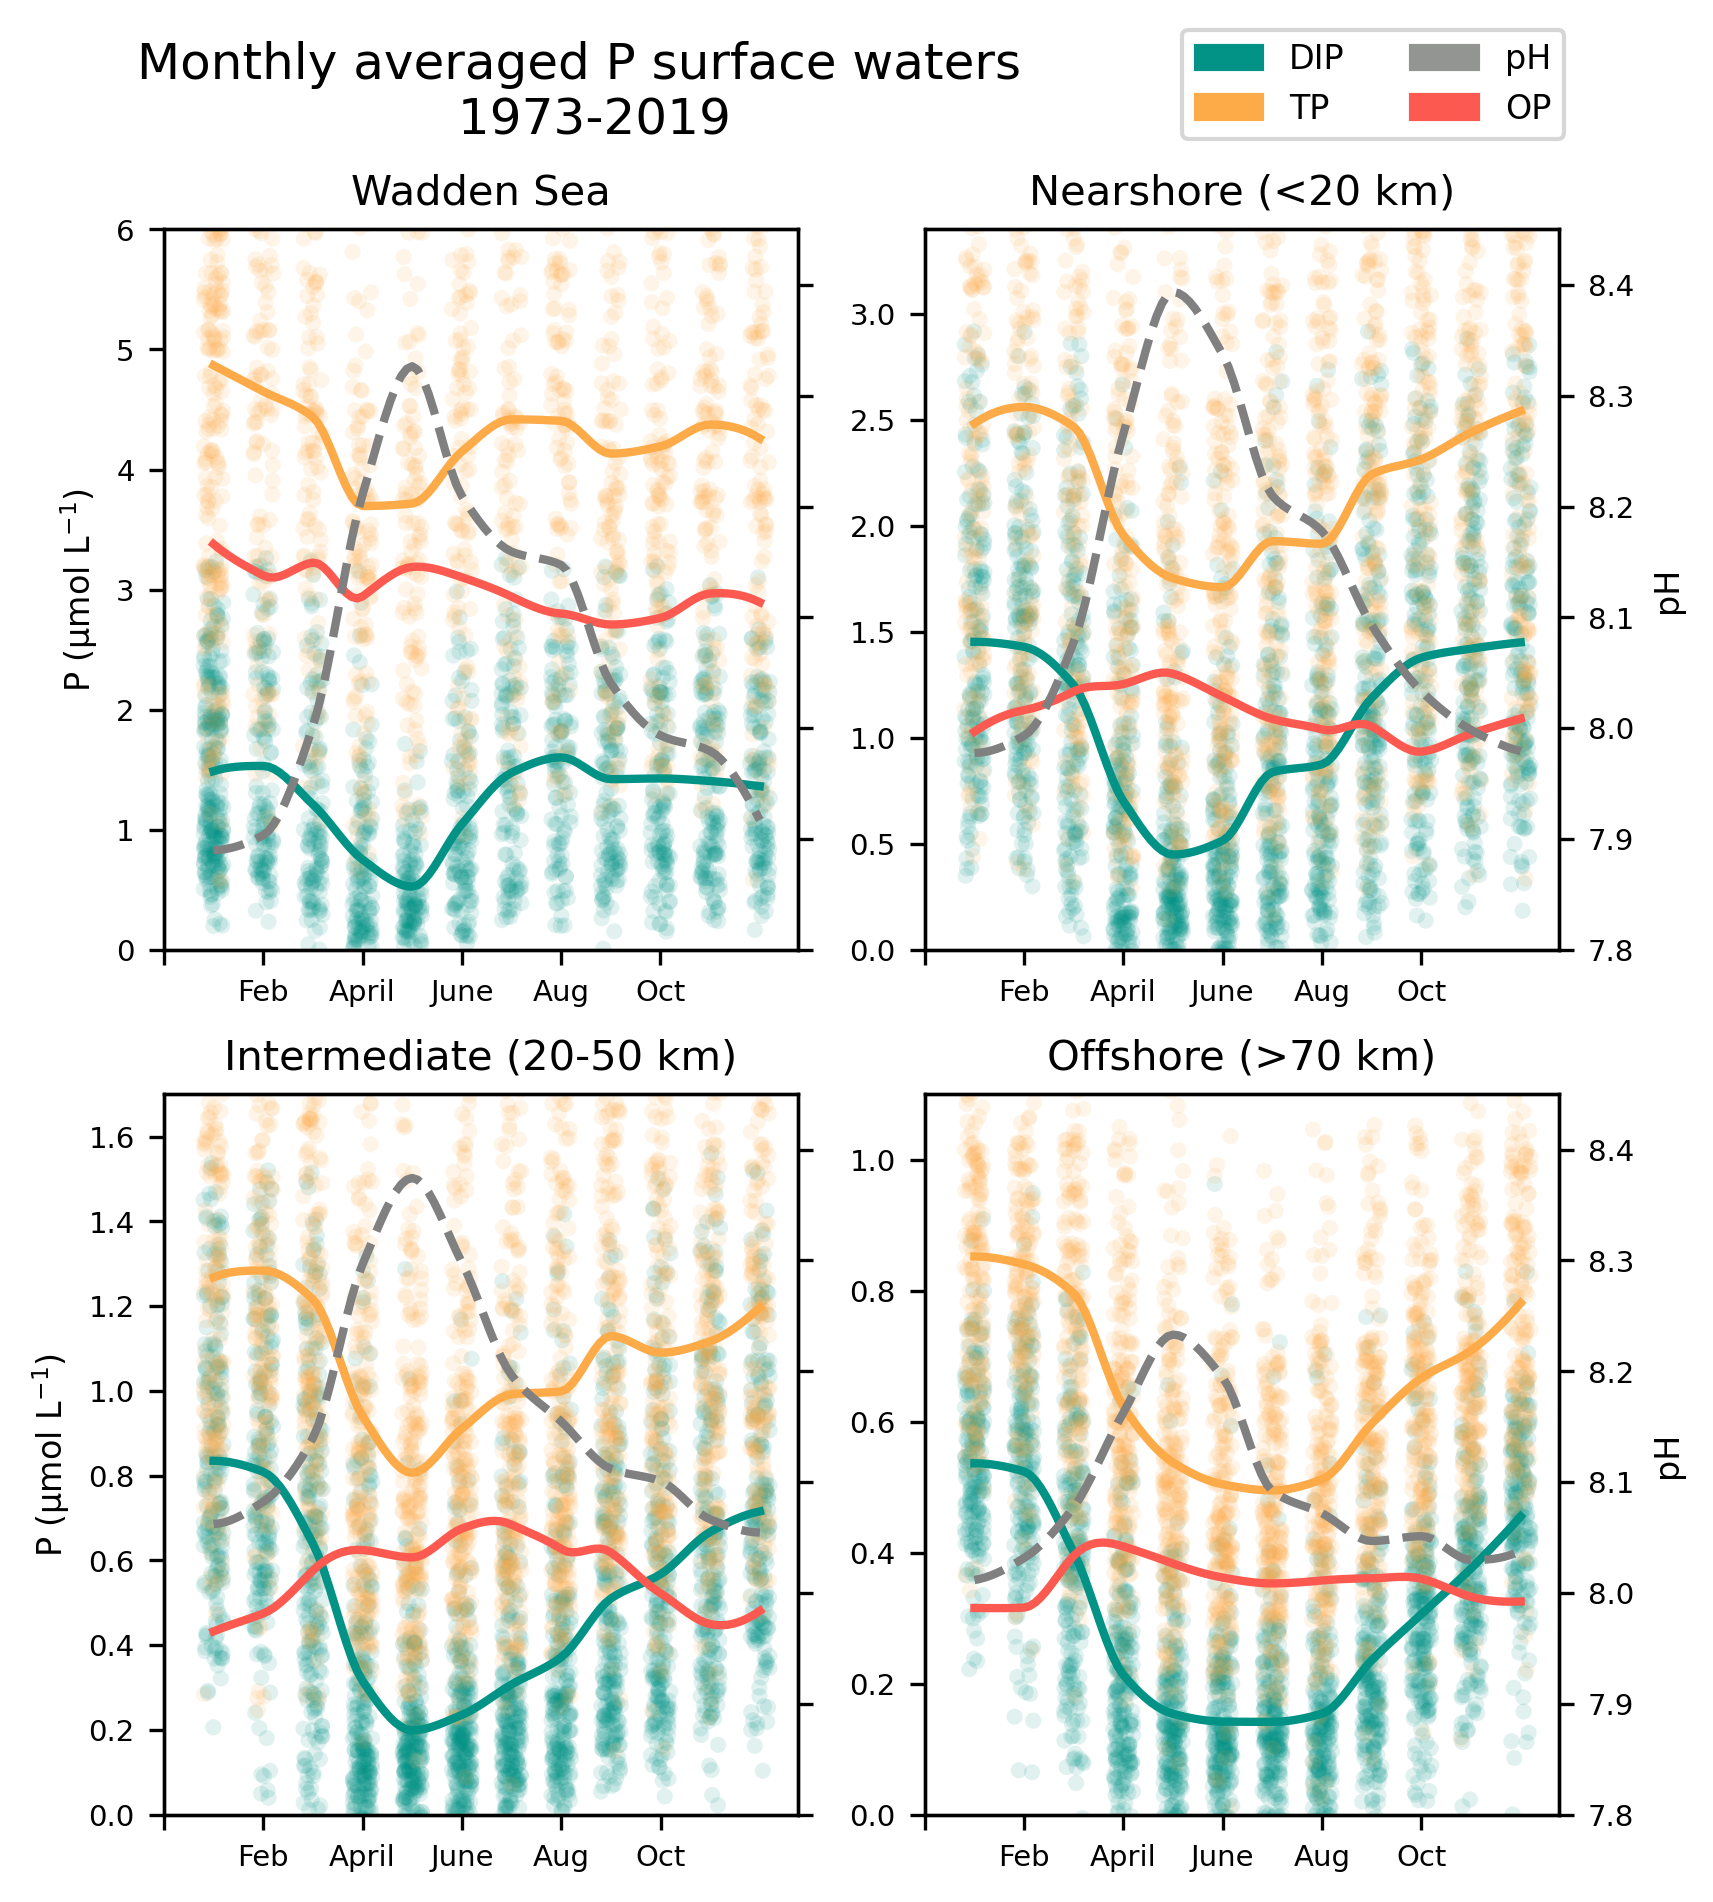
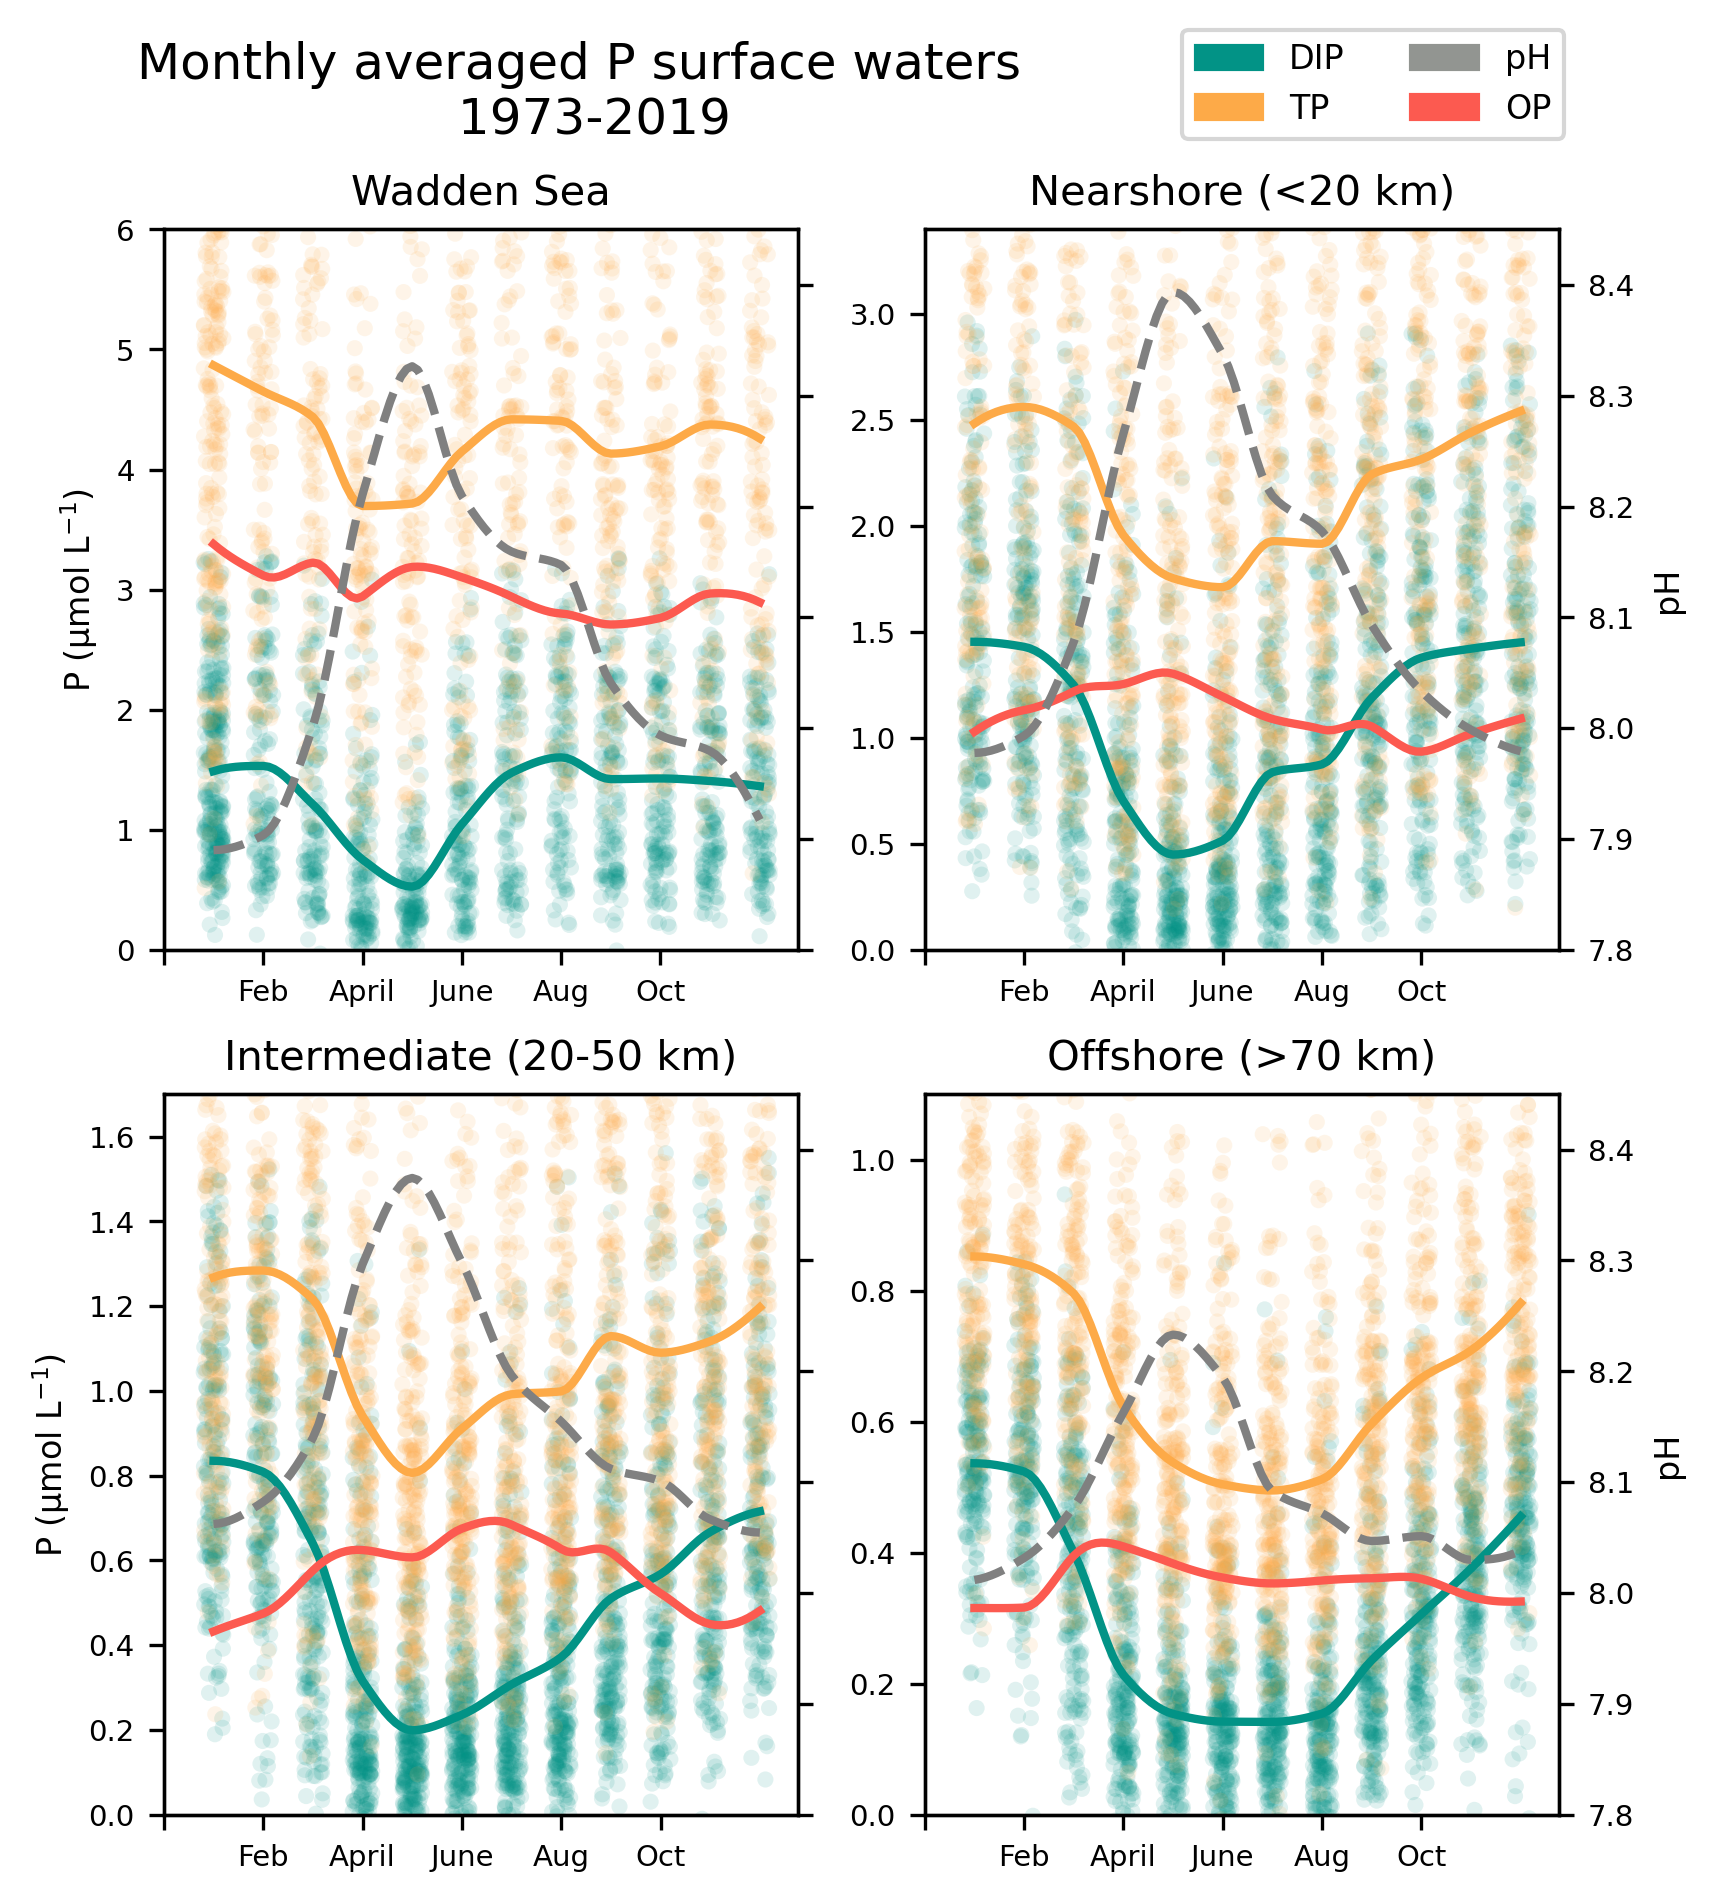
update

diff --git a/DIP_DOP_DIN_DON/dip_dop.py b/DIP_DOP_DIN_DON/dip_dop.py
@@ -40,7 +40,6 @@ if location == 'WaddenSea':
 for stationcode in station_codes:
     filename = "C:/Users/hanna/Documents/GitHub/rws-the-olden-days/data/x13/"+ stationcode.upper() + ".parquet"
     df = pq.read_table(source=filename).to_pandas()
-    df['datetime'] = mdates.num2date(df.datenum)
     L = ((df.datenum > mdates.datestr2num('{}-01-01'.format(startyear))) & (df.datenum < mdates.datestr2num('{}-01-01'.format(endyear))))
     dfL=df[L]
     x1 = x1.append(dfL, ignore_index=False)
@@ -55,16 +54,17 @@ xL = xL[L2]
 
 #For adding extra Jan on x-axis
 L_Jan = (xL.index.month == 1)
-xL = xL.append(xL[L_Jan])
-#months = 
+xL1 = xL.append(xL[L_Jan])
 
 # #Create months list
-months = xL.index.month
+months = xL1.index.month
+L3 = months > len(xL)
+Jan_13 = months[L3] 
 
 #Monthly averages
-monthly_avg_var1 = xL.groupby(xL.index.month)[var1].mean()
-monthly_avg_var2 = xL.groupby(xL.index.month)[var2].mean()
-monthly_avg_pH = xL.groupby(xL.index.month)['pH'].mean()
+monthly_avg_var1 = xL1.groupby(xL1.index.month)[var1].mean()
+monthly_avg_var2 = xL1.groupby(xL1.index.month)[var2].mean()
+monthly_avg_pH = xL1.groupby(xL1.index.month)['pH'].mean()
 
 #Interpolation for smooth line
 months_interp = np.linspace(1, 12, num=100)
@@ -76,12 +76,12 @@ interp_pchip3 = interpolate.PchipInterpolator(monthly_avg_pH.index, monthly_avg_
 pH_pchip = interp_pchip3(months_interp)
 
 #Scatter all raw data minus outliers, with jitter
-sns.regplot(x=months, y=xL[var1], ax=axs[0,0], fit_reg = False, 
+sns.regplot(x=months, y=xL1[var1], ax=axs[0,0], fit_reg = False, 
             x_jitter=0.2, y_jitter=0.1, 
             color='xkcd:teal',
             scatter_kws={'alpha':0.12, 's':15, 'edgecolor':'none'}
             ).set(xlabel=None, ylabel=None)
-sns.regplot(x=months, y=xL[var2], ax=axs[0,0], fit_reg = False, 
+sns.regplot(x=months, y=xL1[var2], ax=axs[0,0], fit_reg = False, 
             x_jitter=0.2, y_jitter=0.1, 
             color='xkcd:light orange', 
             scatter_kws={'alpha':0.12, 's':15, 'edgecolor':'none'}
@@ -263,7 +263,6 @@ if location == 'Offshore':
 for stationcode in station_codes:
     filename = "C:/Users/hanna/Documents/GitHub/rws-the-olden-days/data/x13/"+ stationcode.upper() + ".parquet"
     df = pq.read_table(source=filename).to_pandas()
-    df['datetime'] = mdates.num2date(df.datenum)
     L = ((df.datenum > mdates.datestr2num('{}-01-01'.format(startyear))) & (df.datenum < mdates.datestr2num('{}-01-01'.format(endyear))))
     dfL=df[L]
     x4 = x4.append(dfL, ignore_index=False)
@@ -274,10 +273,19 @@ xL = x4[L]
 xL['z_score_var1'] = stats.zscore(xL[var1])
 xL['z_score_var2'] = stats.zscore(xL[var2])
 L2 = (xL['z_score_var1'].abs()<=2) & (xL['z_score_var2'].abs()<=2)
-xL = xL[L2]
+xL0 = xL[L2]
+
+#For adding extra Jan on x-axis
+L_Jan = (xL0.index.month == 1)
+xL = xL0.append(xL0[L_Jan])
+
+# #Create months list
+months = xL.index.month
+L3 = (months[len(xL1)]-months[len(xL0)::])
+Jan_13 = months[L3]
+months[Jan_13] = 13
 
 #Monthly averages
-months = xL.index.month
 monthly_avg_var1 = xL.groupby(months)[var1].mean()
 monthly_avg_var2 = xL.groupby(months)[var2].mean()
 monthly_avg_pH = xL.groupby(months)['pH'].mean()
